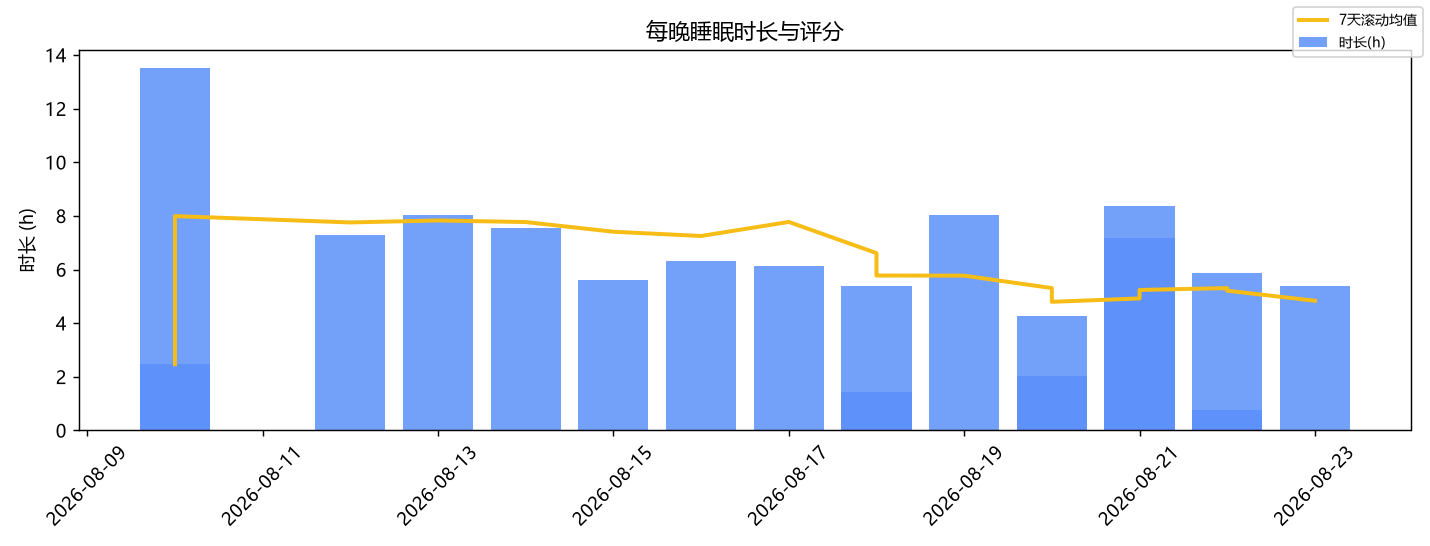
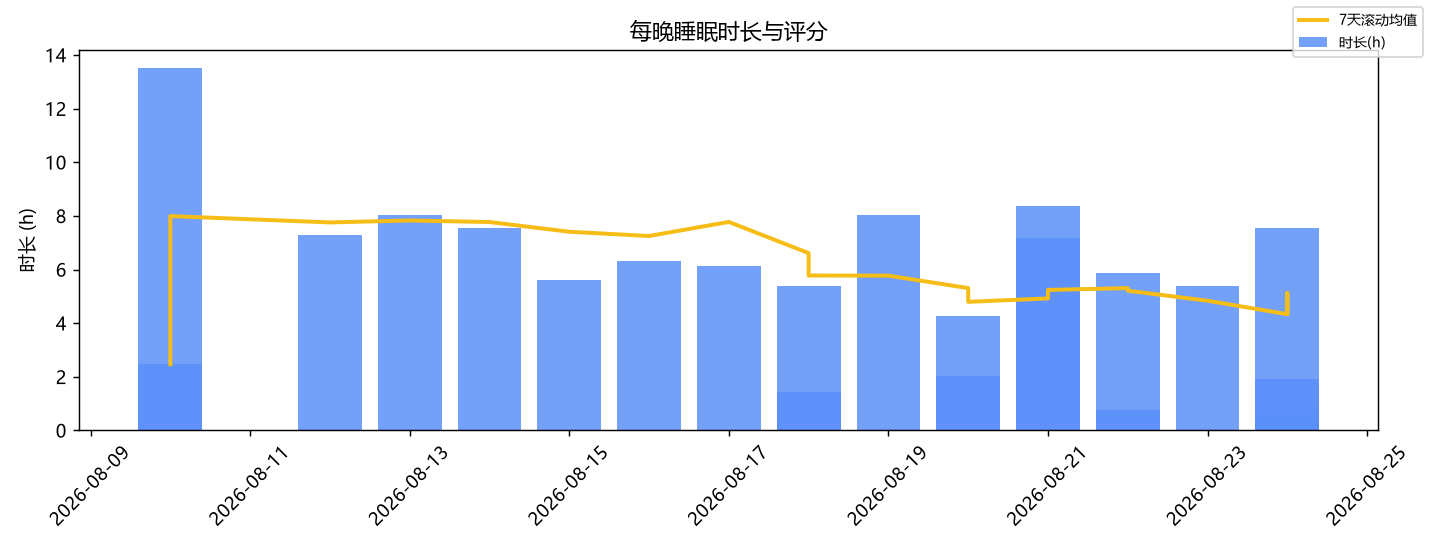
vault backup: 2026-08-24 23:01:21

diff --git a/健康与作息/睡眠分析/日报/睡运-0824 - 原数据.md b/健康与作息/睡眠分析/日报/睡运-0824 - 原数据.md
@@ -1,0 +1,94 @@
+---
+date: 2026-08-24
+type: 小米健康原数据
+tags:
+  - 健康
+  - 原数据
+---
+
+# 小米健康原数据 - 2026-08-24
+
+> 从米桥本地库（mi_fitness.db）导出的原始记录，回溯 14 天
+
+## 睡眠记录
+| 入睡 | 醒来 | 床上(分) | 睡着(分) | 清醒(分) | 评分 | 午睡 | 深睡 | 浅睡 | REM |
+|---|---|---|---|---|---|---|---|---|---|
+| 08-10 13:56 | 08-10 16:24 | 148 | 148 | 0 | — | 否 | — | — | — |
+| 08-10 23:51 | 08-11 13:48 | 811 | 785 | 26 | — | 否 | 83 | 527 | 201 |
+| 08-12 02:45 | 08-12 10:18 | 437 | 421 | 16 | — | 否 | 25 | 315 | 97 |
+| 08-13 04:18 | 08-13 13:05 | 483 | 439 | 44 | — | 否 | 49 | 341 | 93 |
+| 08-14 04:47 | 08-14 12:26 | 452 | 445 | 7 | — | 否 | 51 | 295 | 106 |
+| 08-15 04:43 | 08-15 10:19 | 336 | 336 | 0 | — | 否 | 48 | 213 | 75 |
+| 08-16 07:45 | 08-16 14:38 | 378 | 343 | 35 | — | 否 | 71 | 194 | 113 |
+| 08-17 05:23 | 08-17 11:38 | 368 | 361 | 7 | — | 否 | 56 | 214 | 98 |
+| 08-18 07:50 | 08-18 13:26 | 323 | 310 | 13 | — | 否 | 51 | 172 | 100 |
+| 08-18 16:33 | 08-18 17:59 | 86 | 86 | 0 | — | 否 | — | — | — |
+| 08-19 05:11 | 08-19 13:39 | 481 | 454 | 27 | — | 否 | 62 | 281 | 138 |
+| 08-20 06:14 | 08-20 10:31 | 257 | 257 | 0 | — | 否 | 63 | 127 | 67 |
+| 08-20 12:18 | 08-20 14:19 | 121 | 121 | 0 | — | 否 | — | — | — |
+| 08-21 03:00 | 08-21 10:31 | 431 | 411 | 20 | — | 否 | 49 | 263 | 119 |
+| 08-21 03:00 | 08-21 11:44 | 501 | 478 | 23 | — | 否 | 63 | 294 | 144 |
+| 08-22 04:44 | 08-22 11:24 | 352 | 304 | 48 | — | 否 | 56 | 220 | 76 |
+| 08-22 14:47 | 08-22 15:32 | 45 | 45 | 0 | — | 否 | — | — | — |
+| 08-23 08:28 | 08-23 14:23 | 324 | 293 | 31 | — | 否 | 71 | 169 | 84 |
+| 08-24 02:43 | 08-24 03:29 | 46 | 46 | 0 | — | 否 | — | — | — |
+| 08-24 02:43 | 08-24 10:30 | 453 | 439 | 14 | — | 否 | 58 | 281 | 114 |
+| 08-24 13:12 | 08-24 15:06 | 114 | 114 | 0 | — | 否 | — | — | — |
+
+## 每日活动
+| 日期 | 步数 | 距离(m) | 活动卡路里 | 总卡路里 | 楼层 | 活动分钟 |
+|---|---|---|---|---|---|---|
+| 2026-08-10 | 907 | 555.0 | 282.0 | — | — | — |
+| 2026-08-11 | 1423 | 870.0 | 321.0 | — | — | — |
+| 2026-08-12 | 3731 | 2283.0 | 505.0 | — | — | — |
+| 2026-08-13 | 1189 | 727.0 | 391.0 | — | — | — |
+| 2026-08-14 | 1045 | 639.0 | 422.0 | — | — | — |
+| 2026-08-15 | 1814 | 1111.0 | 435.0 | — | — | — |
+| 2026-08-16 | 5576 | 3414.0 | 496.0 | — | — | — |
+| 2026-08-17 | 1743 | 1066.0 | 527.0 | — | — | — |
+| 2026-08-18 | 1457 | 891.0 | 474.0 | — | — | — |
+| 2026-08-19 | 1061 | 649.0 | 419.0 | — | — | — |
+| 2026-08-20 | 902 | 552.0 | 412.0 | — | — | — |
+| 2026-08-21 | 993 | 607.0 | 390.0 | — | — | — |
+| 2026-08-22 | 3460 | 2117.0 | 434.0 | — | — | — |
+| 2026-08-23 | 8509 | 5208.0 | 441.0 | — | — | — |
+| 2026-08-24 | 750 | 458.0 | 317.0 | — | — | — |
+
+## 运动记录
+_无记录_
+
+## 心率样本
+| 日期 | 样本数 | 最低 | 最高 | 平均 |
+|---|---|---|---|---|
+| 2026-08-10 | 136 | 48 | 102 | 67.4 |
+| 2026-08-11 | 133 | 49 | 114 | 77.9 |
+| 2026-08-12 | 126 | 47 | 130 | 75.5 |
+| 2026-08-13 | 130 | 49 | 106 | 71.6 |
+| 2026-08-14 | 139 | 48 | 105 | 72.1 |
+| 2026-08-15 | 137 | 51 | 98 | 72.9 |
+| 2026-08-16 | 132 | 44 | 112 | 74.5 |
+| 2026-08-17 | 145 | 47 | 109 | 78.7 |
+| 2026-08-18 | 135 | 49 | 105 | 71.8 |
+| 2026-08-19 | 144 | 53 | 109 | 74.3 |
+| 2026-08-20 | 127 | 48 | 99 | 70.4 |
+| 2026-08-21 | 140 | 48 | 110 | 73.1 |
+| 2026-08-22 | 131 | 47 | 91 | 72.2 |
+| 2026-08-23 | 130 | 46 | 117 | 73.8 |
+| 2026-08-24 | 83 | 44 | 88 | 71.5 |
+
+## 身体测量
+| 时间 | 体重(kg) | BMI | 体脂% | 肌肉(kg) | 水分% |
+|---|---|---|---|---|---|
+| 08-11 18:13 | 60.0 | — | — | — | — |
+
+## 血氧（SpO2）
+_无记录_
+
+## 压力
+_无记录_
+
+## 异常心跳事件
+_无记录_
+
+---
+*由 raw_export.py 从米桥本地库导出，未做任何加工。*

diff --git a/健康与作息/睡眠分析/日报/AI睡眠解读-0824.md b/健康与作息/睡眠分析/日报/AI睡眠解读-0824.md
@@ -1,0 +1,53 @@
+---
+date: 2026-08-24
+type: AI睡眠解读
+tags:
+  - 健康
+  - 睡眠
+  - AI会诊
+---
+
+# AI 睡眠解读 - 2026-08-24
+
+> 数据源：`analysis-2026-08-24.json` ｜ 生成时间：23:00
+
+## 📊 数据快照
+
+```
+【睡眠概览】21 晚（2026-08-10 ~ 2026-08-24）
+- 总时长: 均值330.81 中位352 标准差184.26 最短45 最长811 分钟
+- 实际睡着: 均值316 / 中位336 / 最短45 / 最长785 分钟
+- 入睡时刻(均值/漂移): 5.65h / ±4.59h
+- 醒来时刻(均值/漂移): 12.89h / ±2.76h
+- 睡眠效率: 均值96.48% 最小86.36%
+- 短睡夜(<6h): 11 晚; 夜间心率: 56.6 bpm
+- 阶段占比: 深睡10.2% 浅睡43.0% REM18.2% 清醒0.0% (参考: 深睡15-25% REM20-25%)
+【作息规律性】
+- 入睡漂移: ±4.59h; 醒来漂移: ±2.76h
+- 社交时差(周末-工作日入睡差): 2.49h
+- 时长趋势: 前半段382min → 后半段284min
+- 最近7晚: 时长262min 评分— 入睡5.66h
+【运动】无记录
+【数据覆盖】睡眠:15天 | 每日活动:15天 | 运动:0天 | 心率:15天 | 血氧:0天 | 压力:0天 | 体重:1天
+```
+
+## 🧠 GPT-5.6 Sol（睡眠顾问）
+
+**评估**
+- **时长不足且恶化**：平均睡眠约5小时16分，11晚＜6小时；最近7晚仅4小时22分，明显低于成人建议的7–9小时，易损害注意力、记忆巩固和数学/408学习效率。
+- **规律性很差**：平均约05:39入睡、12:53醒，入睡漂移±4.59小时，周末差2.49小时，提示昼夜节律明显延后且紊乱。
+- **结构欠佳**：深睡10.2%、REM 18.2%，均低于参考范围，可能与睡眠不足和作息波动有关。效率96.5%虽高，但不能抵消时长不足；清醒0%提示设备分期可能不准确。
+
+**最需改善的两点**
+1. **先补足总时长**：这是当前影响认知表现最大的因素。  
+2. **固定起床时间**：入睡波动过大，会持续扰乱生物钟及白天警觉性。
+
+**执行方案**
+- 目标调整至**00:30–08:30**。不要一次硬改：每3天将上床和起床各提前30分钟，起床时间每日误差控制在±30分钟，周末也不补到超过1小时。
+- 起床后30分钟内到户外晒光20–30分钟；晚上23:30后调暗灯光、停止高强度刷题，睡前30分钟只做洗漱、纸质阅读。
+- 午睡限在14:00前、20分钟内；14:00后不摄入咖啡因。
+- 每周5天于17:00–19:00快走或慢跑30分钟，睡前2小时避免剧烈运动。
+- 若连续2–4周仍长期＜6小时，或明显嗜睡、打鼾憋醒，建议就医评估。
+
+---
+*本页由 ai_consult.py 自动生成：AI 独立解读睡眠数据，不代表医疗建议。*

diff --git a/健康与作息/睡眠分析/日报/睡运-0824.md b/健康与作息/睡眠分析/日报/睡运-0824.md
@@ -1,0 +1,64 @@
+---
+date: 2026-08-24
+type: 睡眠分析
+tags:
+  - 健康
+  - 睡眠
+  - 运动
+---
+
+# 睡眠与运动分析报告
+
+> 报告区间：2026-08-23 晚 ~ 2026-08-24 早 ｜ 生成时间：2026-08-24 23:00 ｜ 数据源：小米运动健康（米桥本地库）
+
+## 一、数据覆盖概览
+| 类型 | 起始 | 截止 | 有数据天数 |
+|---|---|---|---|
+| 睡眠 | 2026-08-10 | 2026-08-24 | 15 |
+| 每日活动 | 2026-08-10 | 2026-08-24 | 15 |
+| 运动 | — | — | 0 |
+| 心率 | 2026-08-10 | 2026-08-24 | 15 |
+| 血氧 | — | — | 0 |
+| 压力 | — | — | 0 |
+| 体重 | 2026-08-11 | 2026-08-11 | 1 |
+
+## 二、睡眠基础指标
+- 主睡眠共 **21 晚**（2026-08-10 ~ 2026-08-24），午睡 0 次；短睡夜(<6h) **11 晚**，低分夜(<60) **0 晚**
+- 夜间平均心率：**56.6 bpm**
+
+| 指标 | 均值 | 中位数 | 标准差 | 最小 | 最大 | P10 | P90 |
+| --- | --- | --- | --- | --- | --- | --- | --- |
+| 总时长(分钟) | 330.81 | 352 | 184.26 | 45 | 811 | 86.0 | 483.0 |
+| 实际睡着(分钟) | 316 | 336 | 175.37 | 45 | 785 | 86.0 | 454.0 |
+| 睡眠评分 | — | — | — | — | — | — | — |
+| 入睡时刻(小时) | 5.65 | 5.65 | 4.59 | 2.72 | 23.85 | — | — |
+| 醒来时刻(小时) | 12.89 | 12.89 | 2.76 | 3.48 | 17.98 | — | — |
+| 睡眠效率(%) | 96.48 | 96.91 | 3.88 | 86.36 | 100.0 | 90.74 | 100.0 |
+
+### 睡眠结构（各阶段占睡着时间比例）
+| 阶段 | 平均占比 | 波动(标准差) | 参考区间 |
+|---|---|---|---|
+| 深睡 | 10.2% | ±7.5% | 15–25% |
+| 浅睡 | 43.0% | ±27.8% | 45–55% |
+| REM(快速眼动) | 18.2% | ±11.9% | 20–25% |
+| 清醒 | 0.0% | ±0.0% | <5% |
+
+## 三、作息规律性
+- 入睡时间漂移（标准差）：**4.59 h**（<0.5h 很规律，>1h 较混乱）
+- 醒来时间漂移：**2.76 h**
+- **社交时差**：周末比工作日晚睡 **2.49 h**（工作日 4.93h 入睡 / 周末 7.42h 入睡）
+- 时间趋势：平均时长后半段比前半段缩短 **98 分钟**
+- 最近 7 晚：时长 **4h22m**，入睡 **5.66h**
+
+## 四、睡眠 × 活动联动
+_样本不足，暂无可用的联动分析_
+## 五、运动概况
+_无运动记录_
+## 六、图表
+![sleep_overview.png](charts/sleep_overview.png)
+![sleep_stages.png](charts/sleep_stages.png)
+![sleep_timing.png](charts/sleep_timing.png)
+![sleep_by_weekday.png](charts/sleep_by_weekday.png)
+
+---
+*本报告由 analyze.py 自动生成；完整数值见 analysis JSON 文件。*
